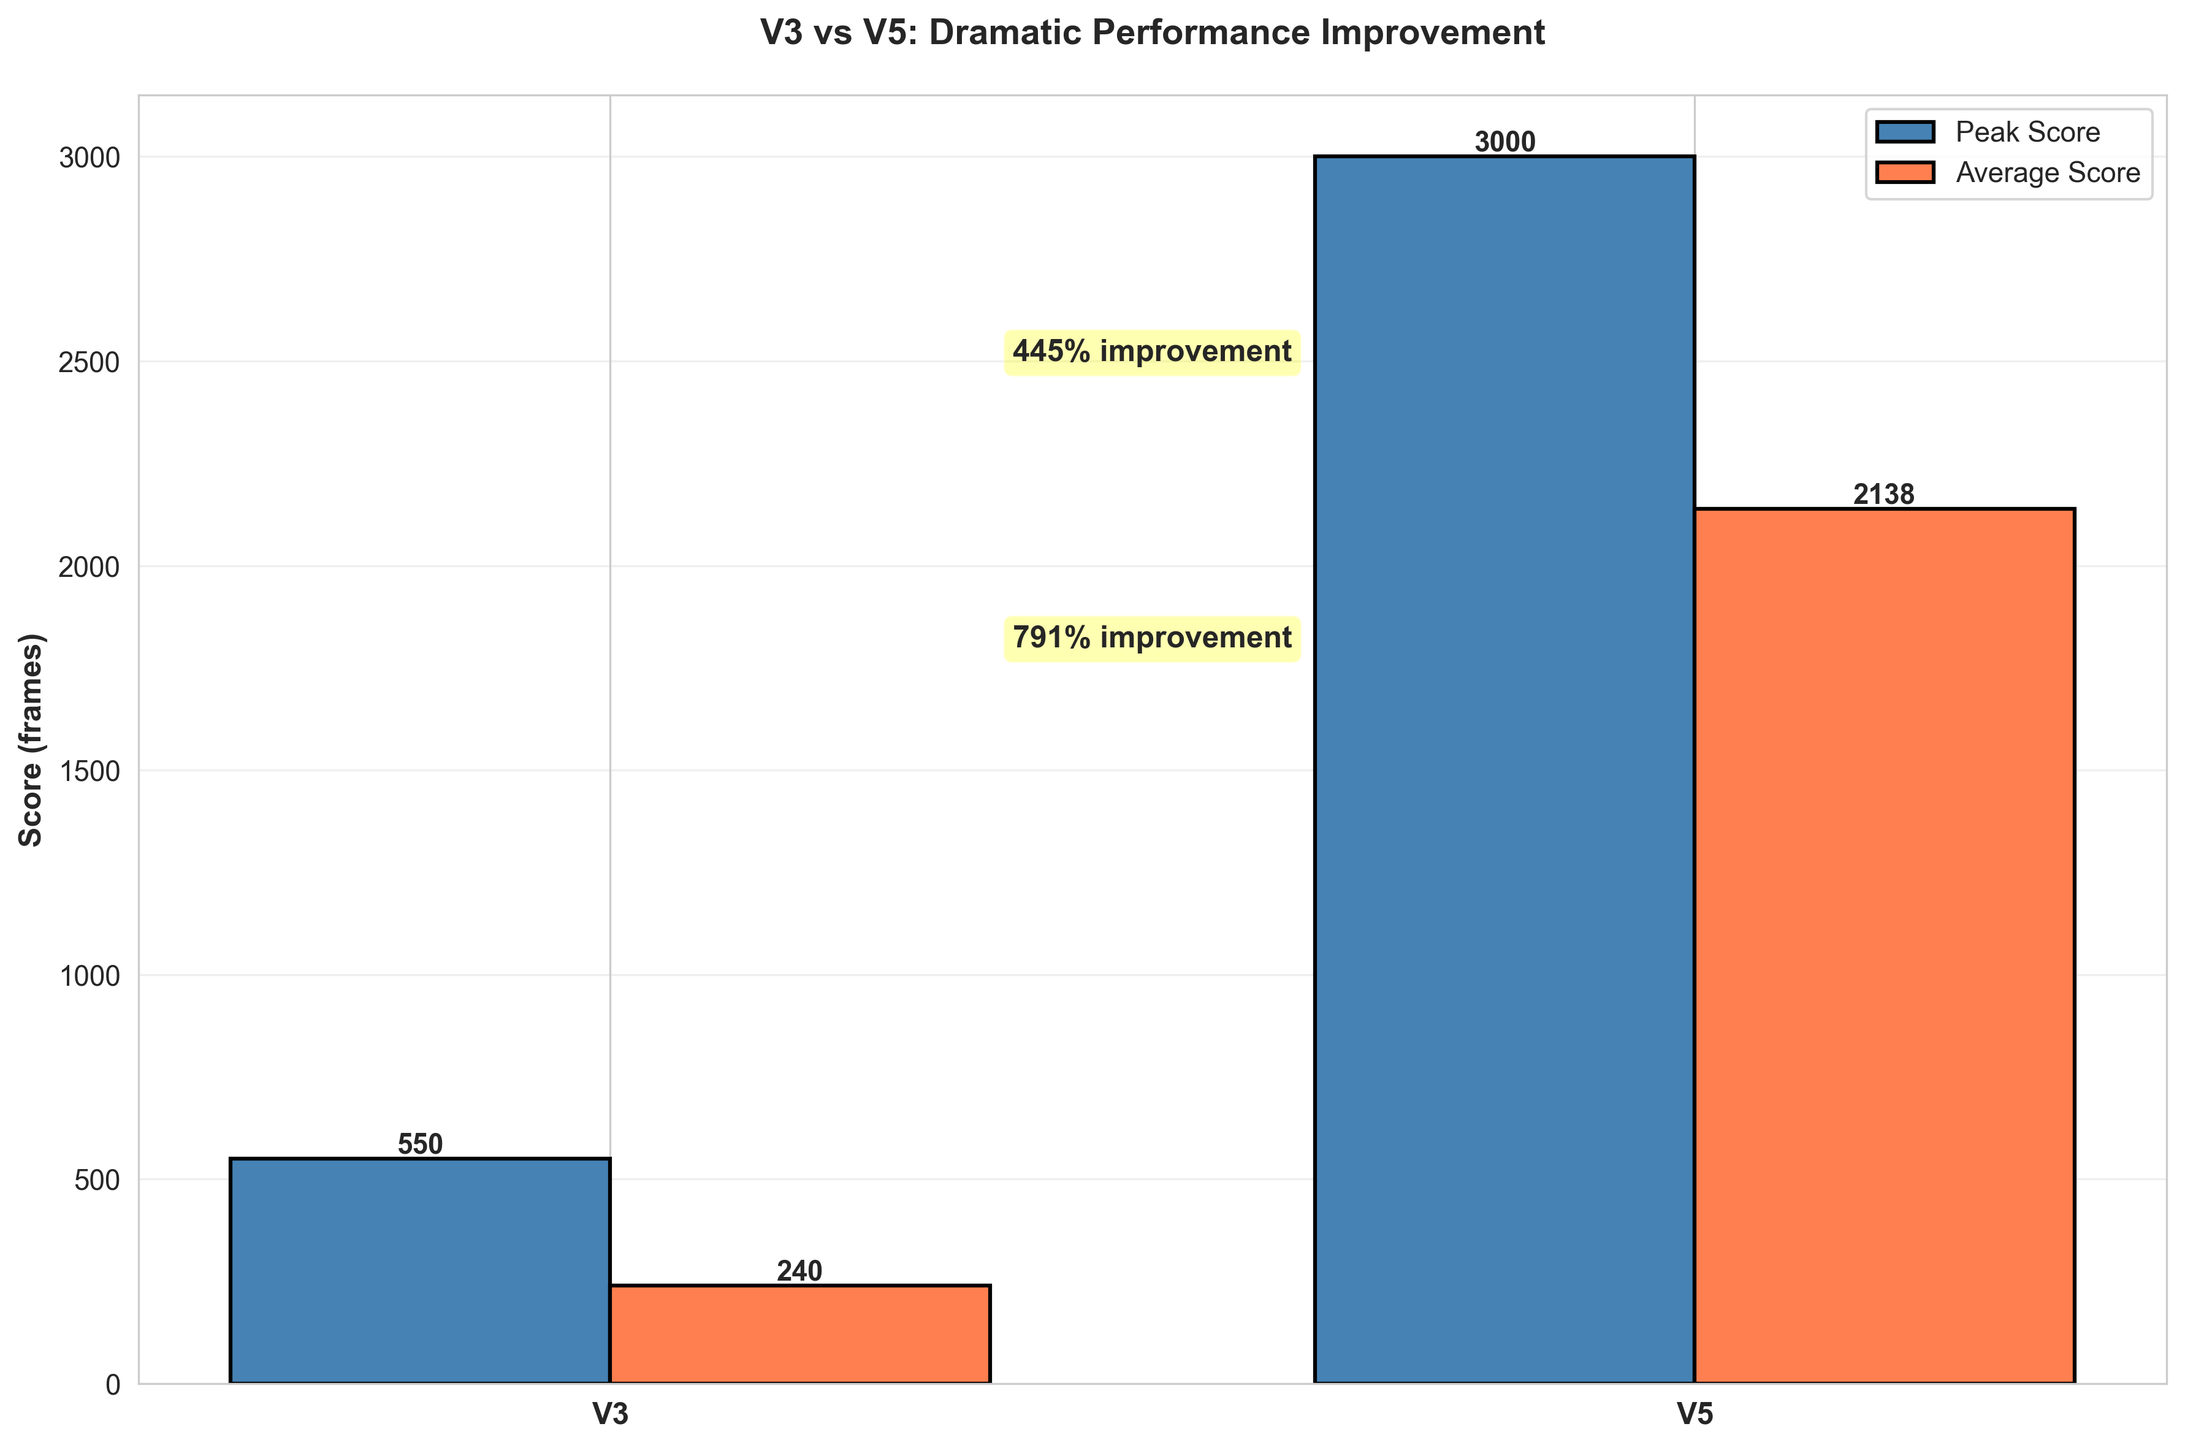
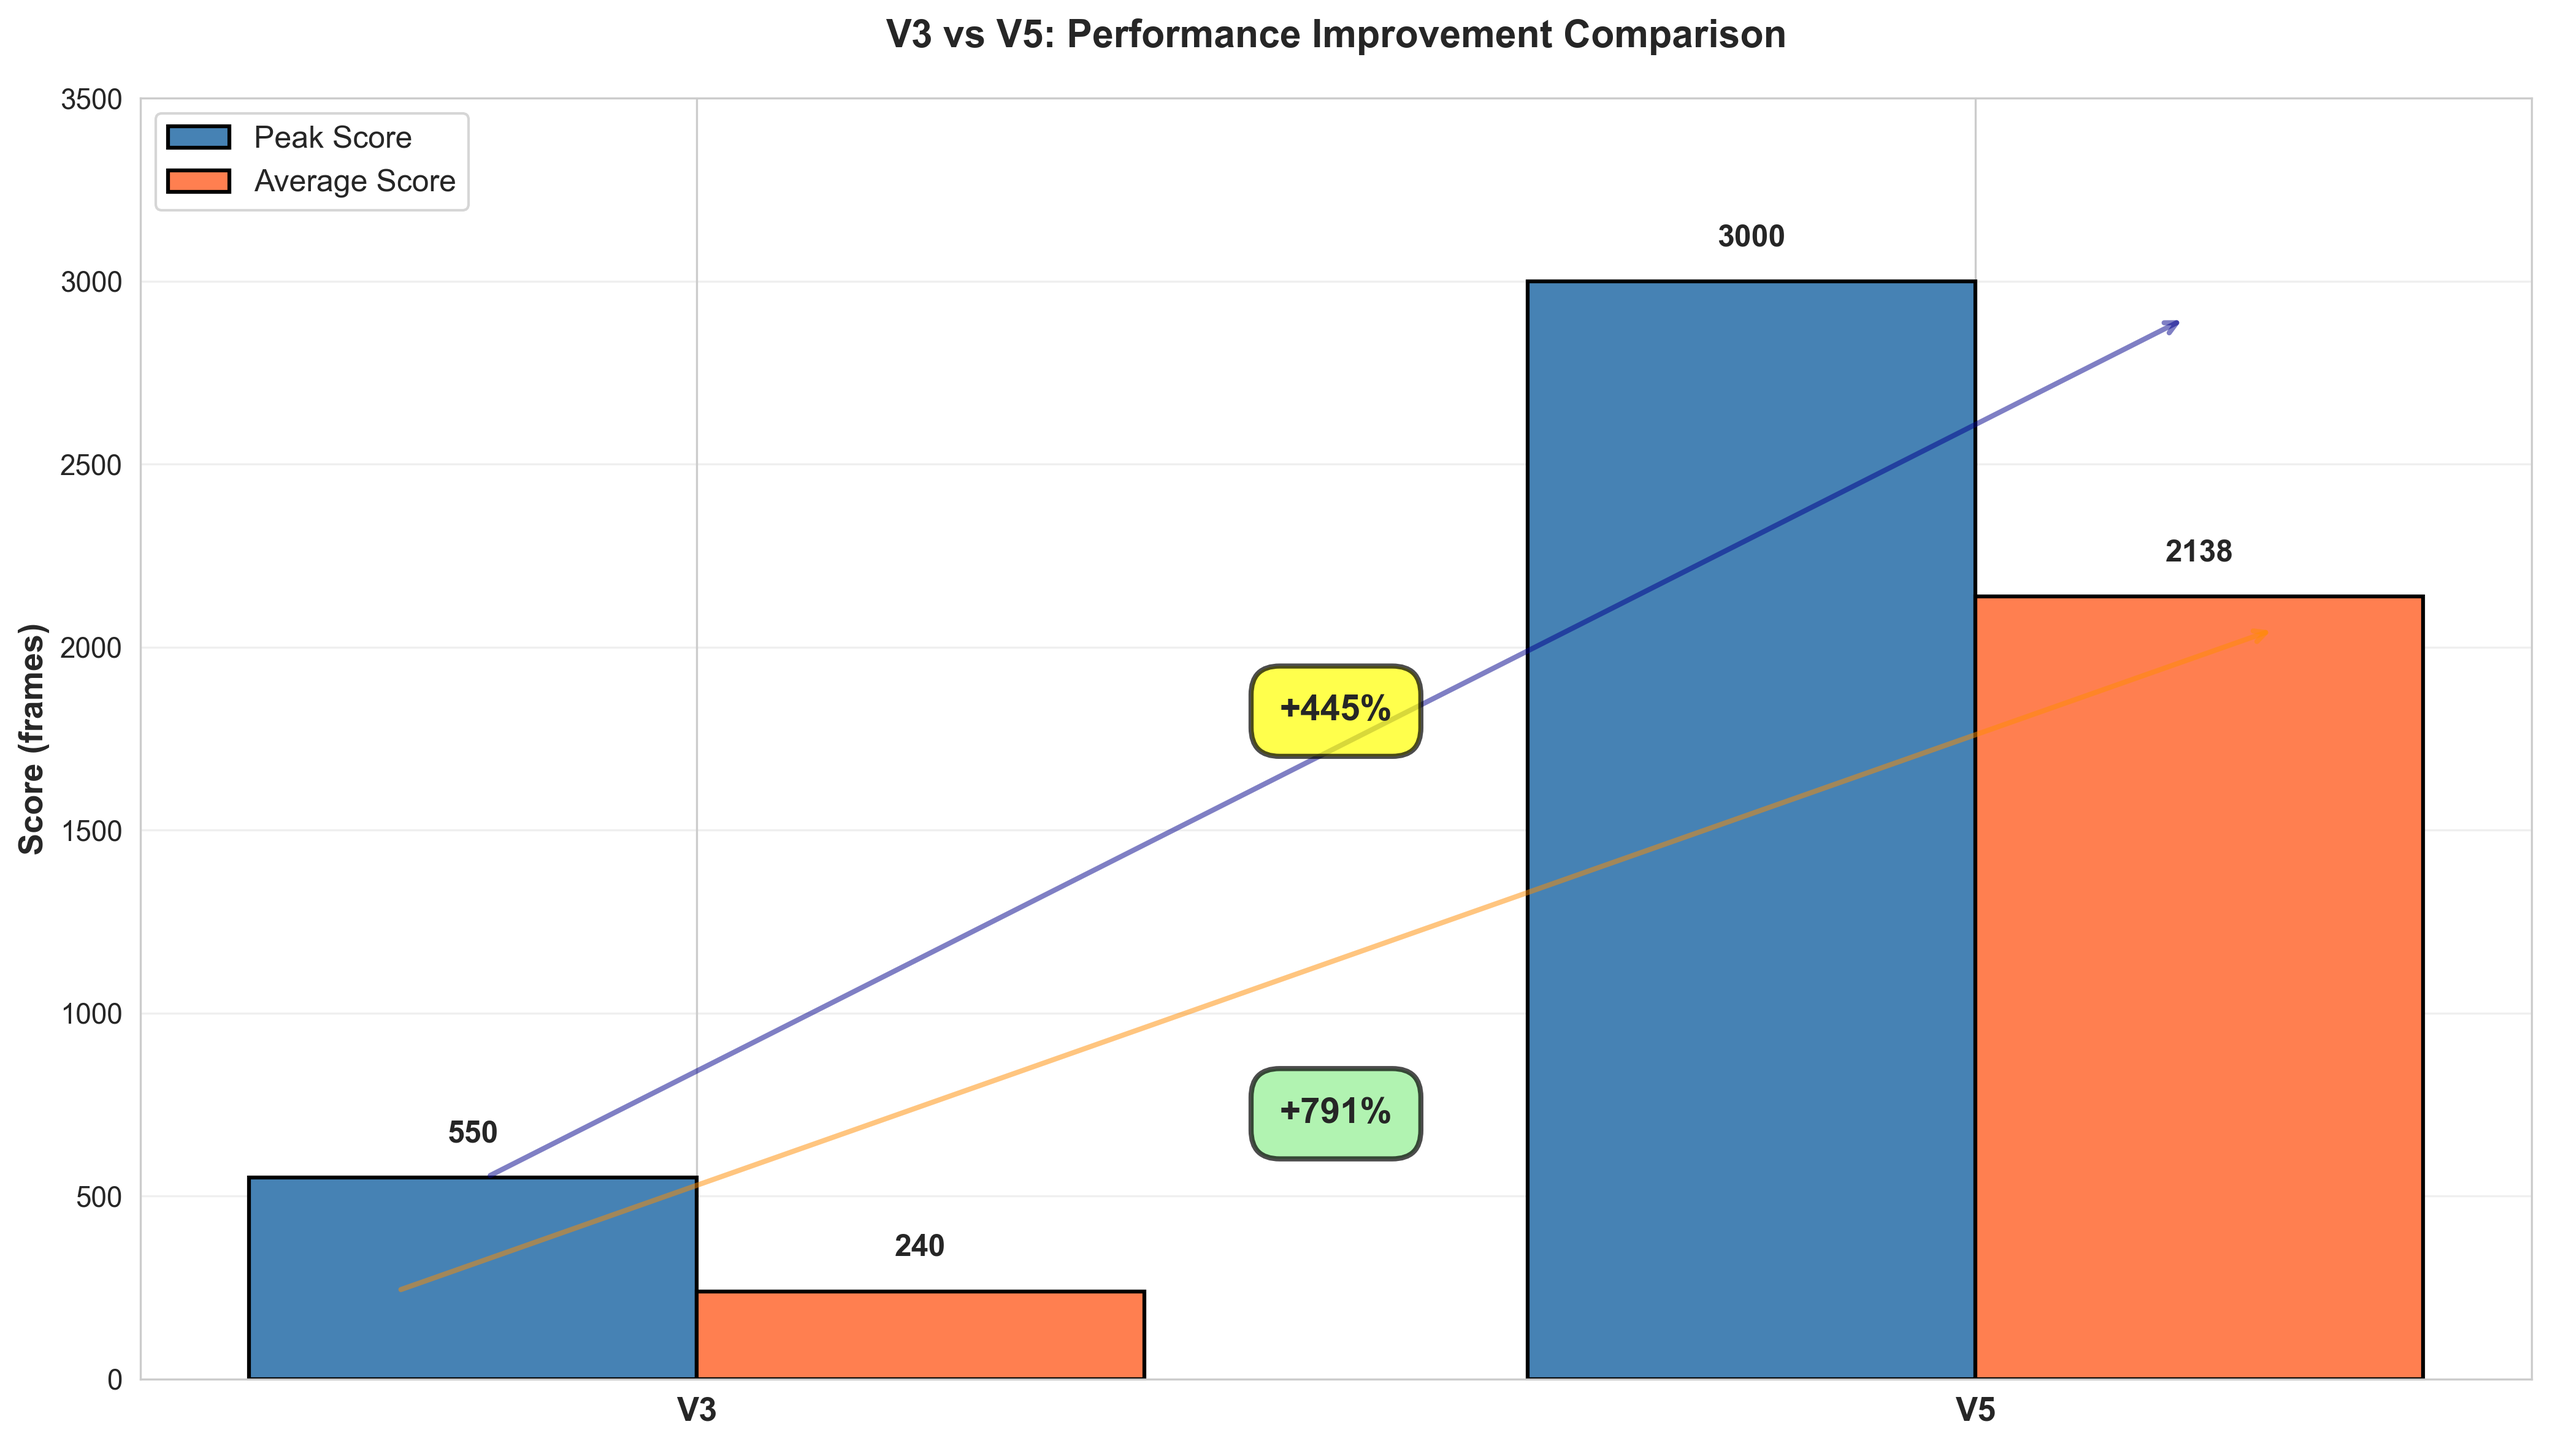
Improve V3 vs V5 graph: better positioned labels with arrows showing improvement

diff --git a/create_graphs.py b/create_graphs.py
@@ -170,7 +170,7 @@ plt.close()
 # ============================================================================
 # Graph 5: V3 vs V5 Performance Comparison
 # ============================================================================
-fig, ax = plt.subplots(figsize=(12, 8))
+fig, ax = plt.subplots(figsize=(14, 8))
 
 versions = ['V3', 'V5']
 peak_scores = [550, 3000]
@@ -182,31 +182,42 @@ width = 0.35
 bars1 = ax.bar(x - width/2, peak_scores, width, label='Peak Score', color='steelblue', edgecolor='black', linewidth=1.5)
 bars2 = ax.bar(x + width/2, avg_scores, width, label='Average Score', color='coral', edgecolor='black', linewidth=1.5)
 
-ax.set_ylabel('Score (frames)', fontsize=12, fontweight='bold')
-ax.set_title('V3 vs V5: Dramatic Performance Improvement', fontsize=14, fontweight='bold', pad=20)
+ax.set_ylabel('Score (frames)', fontsize=13, fontweight='bold')
+ax.set_title('V3 vs V5: Performance Improvement Comparison', fontsize=15, fontweight='bold', pad=20)
 ax.set_xticks(x)
-ax.set_xticklabels(versions, fontsize=12, fontweight='bold')
-ax.legend(fontsize=11)
+ax.set_xticklabels(versions, fontsize=13, fontweight='bold')
+ax.legend(fontsize=12, loc='upper left')
 ax.grid(True, alpha=0.3, axis='y')
+ax.set_ylim(0, 3500)
 
-# Add value labels on bars
+# Add score value labels on bars
 for bar in bars1:
     height = bar.get_height()
-    ax.text(bar.get_x() + bar.get_width()/2., height,
-            f'{int(height)}', ha='center', va='bottom', fontweight='bold', fontsize=11)
+    ax.text(bar.get_x() + bar.get_width()/2., height + 80,
+            f'{int(height)}', ha='center', va='bottom', fontweight='bold', fontsize=12)
 
 for bar in bars2:
     height = bar.get_height()
-    ax.text(bar.get_x() + bar.get_width()/2., height,
-            f'{int(height)}', ha='center', va='bottom', fontweight='bold', fontsize=11)
+    ax.text(bar.get_x() + bar.get_width()/2., height + 80,
+            f'{int(height)}', ha='center', va='bottom', fontweight='bold', fontsize=12)
 
-# Add improvement percentages
+# Add improvement percentages with arrow annotations
 improvement_peak = ((3000 - 550) / 550) * 100
 improvement_avg = ((2138 - 240) / 240) * 100
-ax.text(0.5, 2500, f'{improvement_peak:.0f}% improvement', ha='center', fontsize=12,
-        bbox=dict(boxstyle='round', facecolor='yellow', alpha=0.3), fontweight='bold')
-ax.text(0.5, 1800, f'{improvement_avg:.0f}% improvement', ha='center', fontsize=12,
-        bbox=dict(boxstyle='round', facecolor='yellow', alpha=0.3), fontweight='bold')
+
+# Peak score improvement label
+ax.annotate('', xy=(1.165, 2900), xytext=(-0.165, 550),
+            arrowprops=dict(arrowstyle='->', lw=2, color='darkblue', alpha=0.5))
+ax.text(0.5, 1800, f'+{improvement_peak:.0f}%', ha='center', fontsize=14,
+        bbox=dict(boxstyle='round,pad=0.8', facecolor='yellow', alpha=0.7, edgecolor='black', linewidth=2),
+        fontweight='bold')
+
+# Average score improvement label
+ax.annotate('', xy=(1.235, 2050), xytext=(-0.235, 240),
+            arrowprops=dict(arrowstyle='->', lw=2, color='darkorange', alpha=0.5))
+ax.text(0.5, 700, f'+{improvement_avg:.0f}%', ha='center', fontsize=14,
+        bbox=dict(boxstyle='round,pad=0.8', facecolor='lightgreen', alpha=0.7, edgecolor='black', linewidth=2),
+        fontweight='bold')
 
 plt.tight_layout()
 plt.savefig('graphs/05_v3_vs_v5_comparison.png', dpi=300, bbox_inches='tight')
